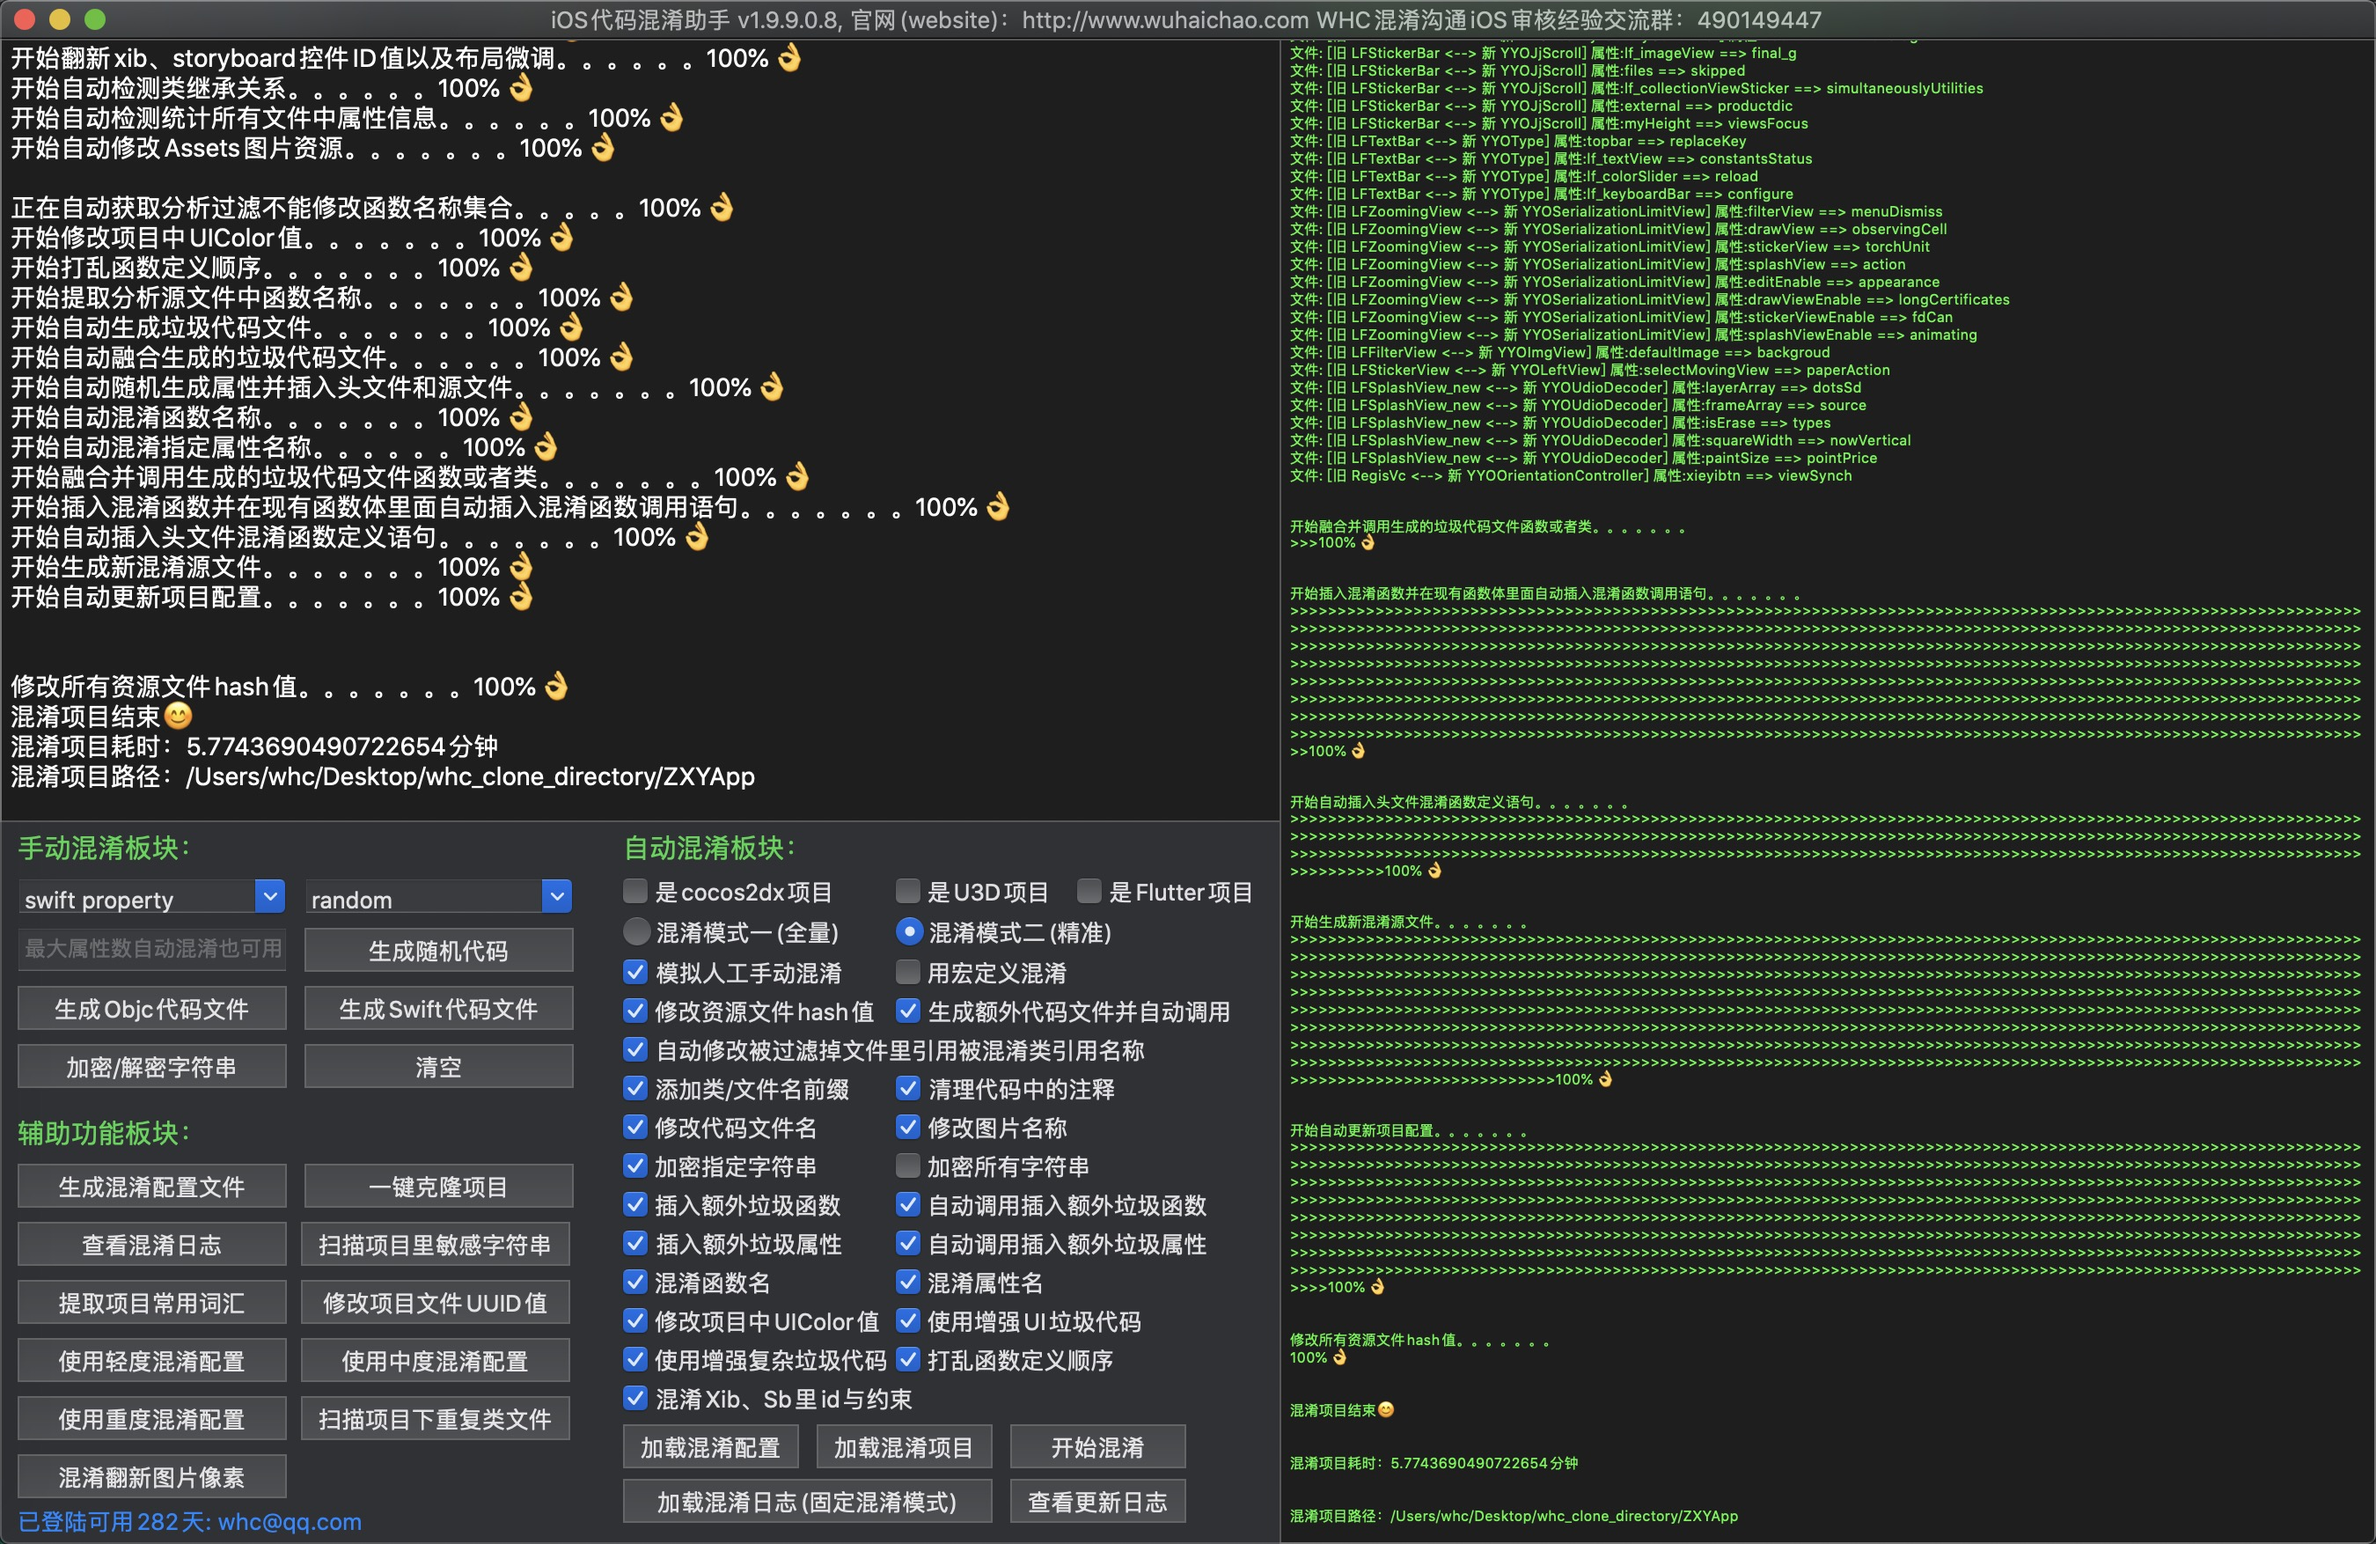
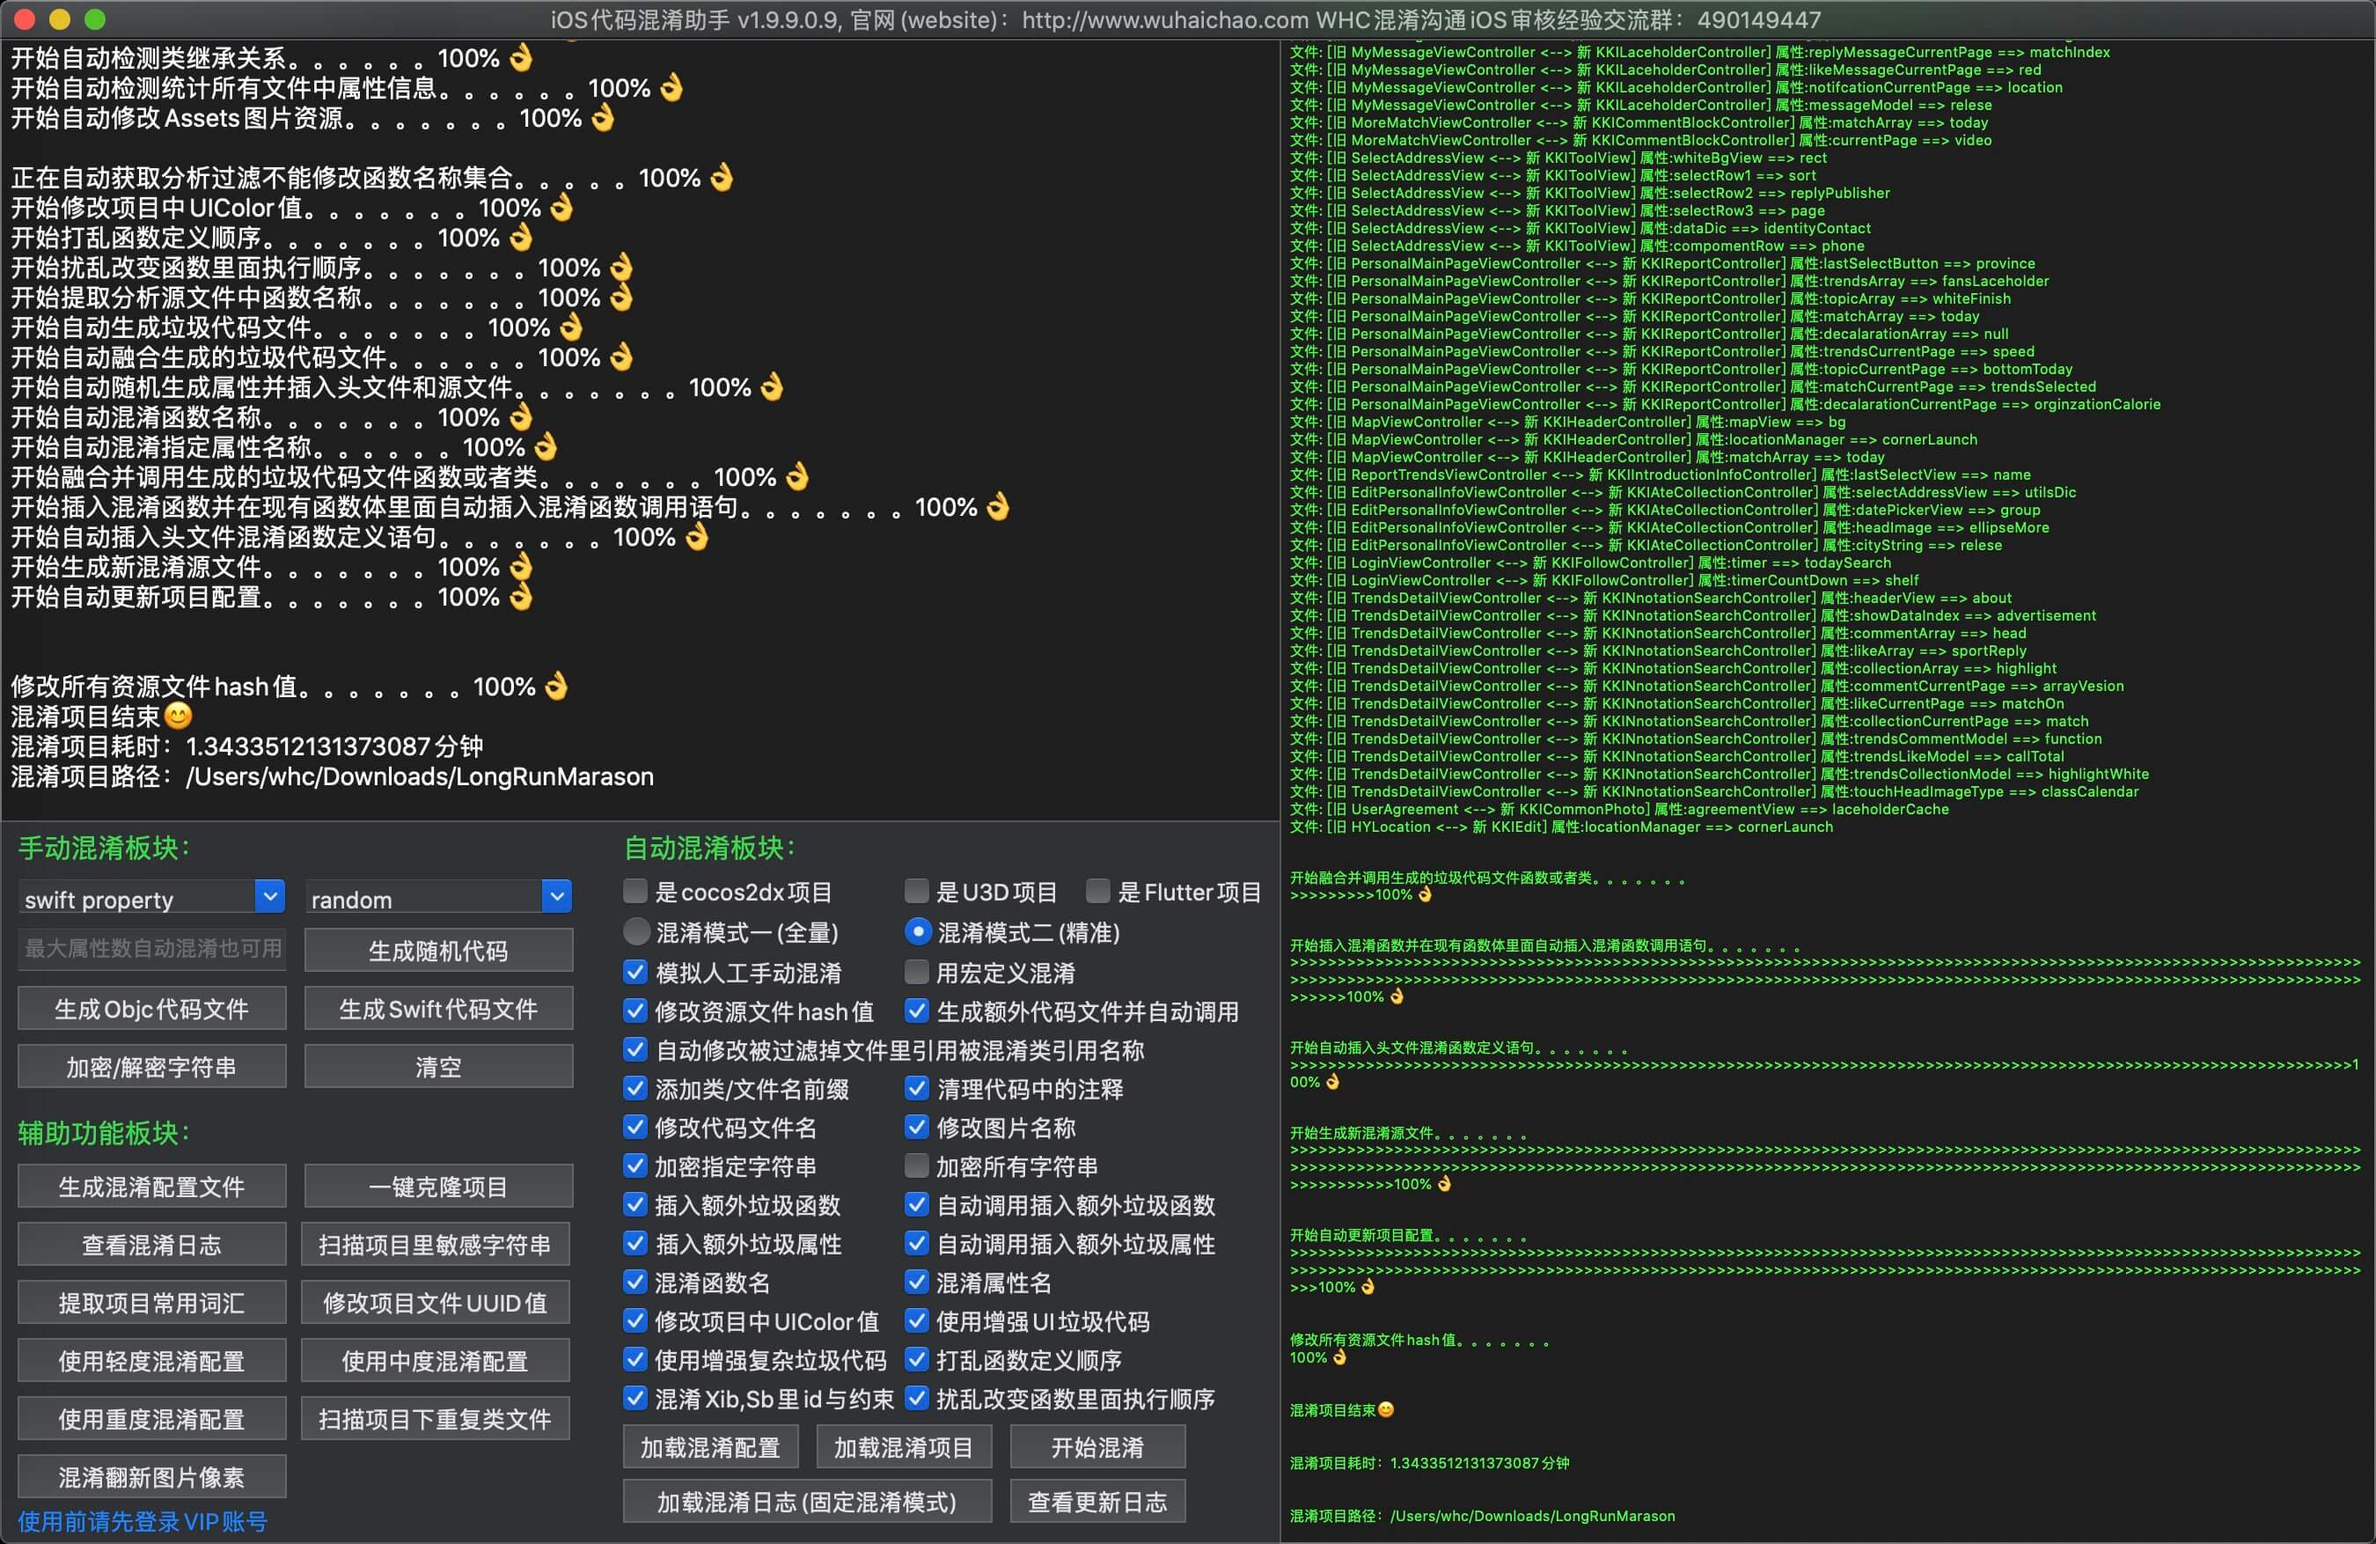
### v1.9.9.0.9 (2022-04-05):     1.优化c语言函数名称混淆复杂语法错误问题     2.自动识别是否需要引入UIKit     3.支持pch字符串加密     4.修复克隆不修改目录名称，桥接文件找不到问题     5.添加扰乱改变函数体里面的调用顺序功能     6.优化宏定义去重复

diff --git a/README.md b/README.md
@@ -4,11 +4,11 @@
  * @LastEditTime: 2022-03-20 16:48:02
  -->
 
-# iOS代码混淆v1.9.9.0.8 更新时间：2022-03-19（最新版本安装包向作者获取）混淆沟通iOS审核交流群：490149447
+# iOS代码混淆v1.9.9.0.9 更新时间：2022-04-05（最新版本安装包向作者获取）混淆沟通iOS审核交流群：490149447
 
 ## 支持混淆语言：(Objective-c 、Swift、C++、C、Dart)
 ## 支持项目类型：(iOS App、Cocos2dx、Unity3D、Flutter)
-## 混淆演示微云：https://share.weiyun.com/iXVgjBnE
+## 混淆亮点：扰乱改变函数里面原有调用顺序(最新版本支持)
 ## 混淆演示西瓜视频：https://www.ixigua.com/7077188894449795620?utm_source=xiguastudio&wid_try=1
 ## 优势：本软件经历过上千人数万次不同项目混淆检验，各种大型项目混淆检验，更新迭代4年多，功能完善强大稳定，混淆编译错误很少，支持图片icon智能变色（如黄色变成红色），完善的售后服务有求必应，软件作者技术实力强有足够的能力修复问题以及开发新功能完成版本更新迭代
 
@@ -46,6 +46,7 @@
 -  ☑ 19.支持打乱类函数定义顺序
 -  ☑ 20.支持提取项目类名，函数名，属性名词汇
 -  ☑ 21.支持图片像素混淆(统一智能变色)
+-  ☑ 22.支持扰乱改变函数里面的调用顺序(Objc, Swift, C, C++, Dart)
 
 ## 软件界面展示
 ![image](https://github.com/netyouli/WHC_ConfuseSoftware/blob/master/ConfuseSoftware/ui.png)

diff --git a/history_readme.md b/history_readme.md
@@ -5,6 +5,14 @@
  -->
 # iOS代码混淆翻新-历史更新记录
 
+### v1.9.9.0.9 (2022-04-05):
+    1.优化c语言函数名称混淆复杂语法错误问题
+    2.自动识别是否需要引入UIKit
+    3.支持pch字符串加密
+    4.修复克隆不修改目录名称，桥接文件找不到问题
+    5.添加扰乱改变函数体里面的调用顺序功能
+    6.优化宏定义去重复
+
 ### v1.9.9.0.8 (2022-03-19):
     1.优化UIColor混淆策略
     2.优化oc函数名混淆策略
